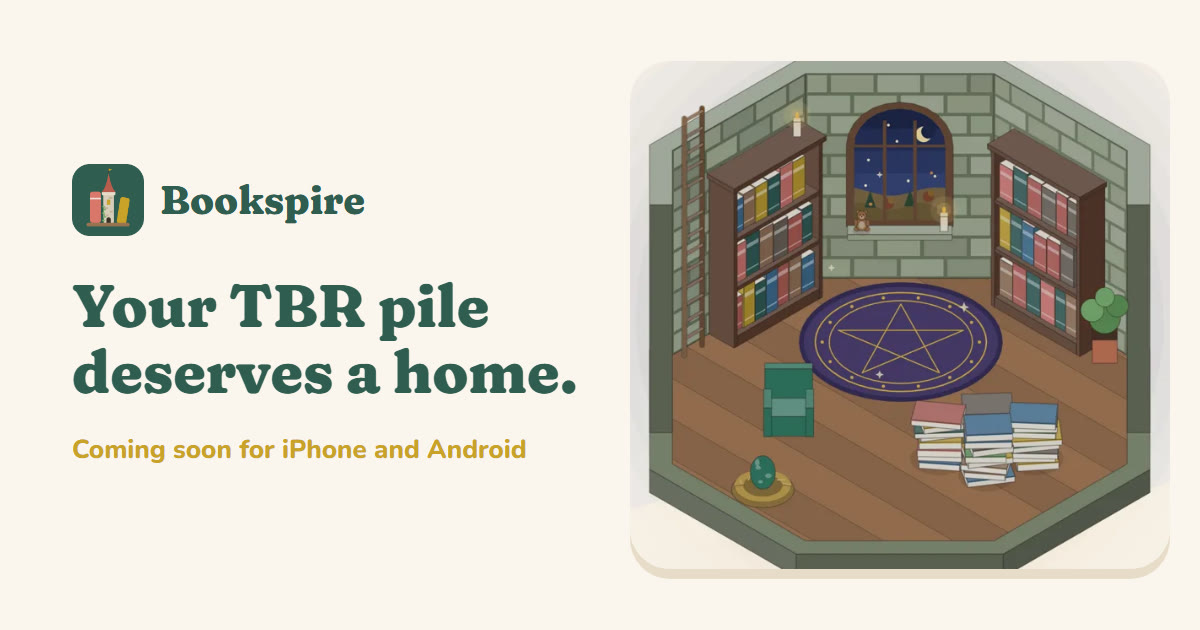
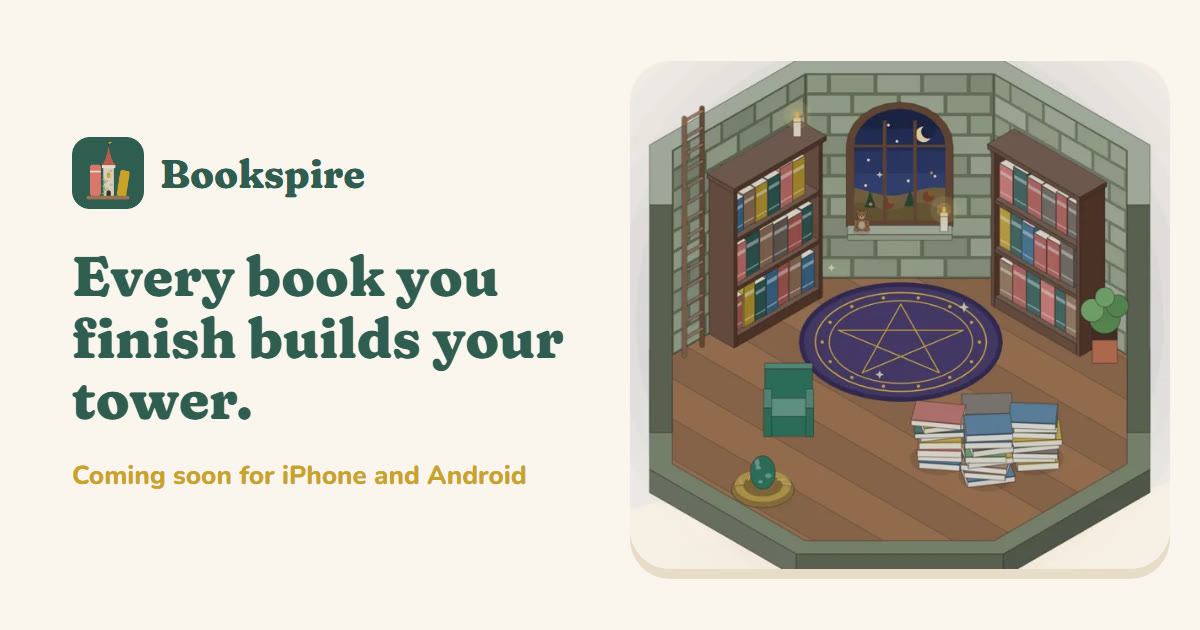
feat: Startseite – Texte auf den Kern ausgerichtet (Jedes Buch baut deinen Turm)
Für Neulinge und alle, denen Goodreads und Co. zu öde sind: neue Überschrift und Einleitung, Schritte mit Belohnung zuletzt, Abschnitte aus Sicht der Leserin, Abgrenzung im Tracker-Abschnitt, Rangliste ohne Widerspruch, zwei neue FAQ. Vorschaubilder og.jpg und og-en.jpg mit neuer Überschrift; Freund*innen einheitlich.

Changed region(s): [[0.0617, 0.2111, 0.4933, 0.6635], [0.0617, 0.6937, 0.4625, 0.7841]]

diff --git a/index.html b/index.html
@@ -3,19 +3,19 @@
   <head>
     <meta charset="utf-8" />
     <meta name="viewport" content="width=device-width, initial-scale=1" />
-    <title>Bookspire – dein TBR-Stapel verdient ein Zuhause</title>
+    <title>Bookspire – jedes Buch baut deinen Turm</title>
     <meta
       name="description"
-      content="Bookspire macht aus deinen Büchern ein gemütliches Lesezimmer in einem magischen Turm. Erfasse, was du liest, fülle Regal um Regal und lass deinen Turm wachsen." />
+      content="Bookspire macht dein Lesen sichtbar: Mit jedem Buch, das du beendest, füllt sich dein gemütliches Lesezimmer, und dein magischer Turm wächst. Bald für iPhone und Android." />
     <meta name="theme-color" content="#2f5d50" />
     <link rel="icon" type="image/png" href="images/favicon.png" />
     <link rel="apple-touch-icon" href="images/icon.png" />
     <link rel="alternate" hreflang="en" href="https://bookspire.de/en/" />
     <meta property="og:type" content="website" />
-    <meta property="og:title" content="Bookspire – dein TBR-Stapel verdient ein Zuhause" />
+    <meta property="og:title" content="Bookspire – jedes Buch baut deinen Turm" />
     <meta
       property="og:description"
-      content="Ein gemütliches Lesezimmer, das mit deinen Büchern wächst. Bald für iPhone und Android." />
+      content="Ein gemütliches Lesezimmer, das mit jedem Buch wächst, das du beendest. Bald für iPhone und Android." />
     <meta property="og:image" content="https://bookspire.de/images/og.jpg" />
     <meta property="og:image:width" content="1200" />
     <meta property="og:image:height" content="630" />
@@ -39,11 +39,11 @@
       <section class="hero wrap">
         <div class="hero-text">
           <p class="eyebrow">Für alle mit zu vielen Büchern. Also für dich.</p>
-          <h1>Dein TBR-Stapel verdient ein Zuhause.</h1>
+          <h1>Jedes Buch, das du beendest, baut deinen Turm.</h1>
           <p class="lead">
-            Bookspire macht aus deinen Büchern ein gemütliches Lesezimmer in einem magischen Turm.
-            Du liest wie immer – auf Papier oder dem E-Reader – und erfasst hier, was du liest.
-            Regal für Regal, Stockwerk für Stockwerk.
+            Bookspire macht dein Lesen sichtbar. Regal für Regal füllt sich dein gemütliches
+            Lesezimmer, Stockwerk für Stockwerk wächst dein Turm – und mit jedem Buch schaltest du
+            etwas Neues frei. Gelesen wird wie immer: auf Papier, dem E-Reader oder als Hörbuch.
           </p>
           <div class="cta-row">
             <a class="button" href="#warteliste">Auf die Warteliste</a>
@@ -69,32 +69,33 @@
       </section>
 
       <section class="steps wrap" aria-labelledby="steps-title">
-        <h2 id="steps-title">So einfach geht's</h2>
+        <h2 id="steps-title">So funktioniert's</h2>
         <ol>
           <li>
             <span class="step-number" aria-hidden="true">1</span>
-            <h3>Bücher rein</h3>
-            <p>ISBN scannen, Titel suchen oder deine Bibliothek mitbringen – aus Goodreads, BookBuddy oder jeder anderen App mit CSV-Export.</p>
+            <h3>Lesen, wie du magst</h3>
+            <p>Auf Papier, dem E-Reader oder als Hörbuch. Deine Bücher holst du per ISBN-Scan, Suche oder Import aus Goodreads und Co.</p>
           </li>
           <li>
             <span class="step-number" aria-hidden="true">2</span>
-            <h3>Fortschritt erfassen</h3>
-            <p>Trag mit wenigen Tipps ein, auf welcher Seite du gerade bist.</p>
+            <h3>Kurz eintragen</h3>
+            <p>Ein paar Tipps, und Bookspire weiß, auf welcher Seite du bist.</p>
           </li>
           <li>
             <span class="step-number" aria-hidden="true">3</span>
-            <h3>Jedes Buch zählt</h3>
-            <p>Beendete Bücher kommen ins Regal, und mit jedem schaltest du etwas Neues für dein Lesezimmer frei.</p>
+            <h3>Zusehen, wie es wächst</h3>
+            <p>Jedes beendete Buch wandert ins Regal und schaltet etwas Neues für dein Lesezimmer frei.</p>
           </li>
         </ol>
       </section>
 
       <section class="feature wrap">
         <div class="feature-text reveal">
-          <h2>Jedes Buch bekommt seinen Platz im Regal.</h2>
+          <h2>Endlich siehst du, was du gelesen hast.</h2>
           <p>
-            Gelesene Bücher stehen mit ihrem Buchrücken im Regal, ungelesene liegen auf deinem
-            TBR-Stapel im Erdgeschoss. Ein Tipp aufs Regal zeigt alle Titel aus der Nähe.
+            Jedes beendete Buch steht mit seinem Buchrücken im Regal. Was noch wartet, stapelt sich
+            im Erdgeschoss – ja, auch dein TBR bekommt seinen Platz. Ein Tipp aufs Regal holt alle
+            Titel ganz nah heran.
           </p>
         </div>
         <figure class="phone reveal">
@@ -107,8 +108,8 @@
         <div class="feature-text reveal">
           <h2>Volle Regale? Dein Turm wächst.</h2>
           <p>
-            Sind alle Regale eines Stockwerks voll, bekommt dein Turm eine neue Etage. Von außen
-            siehst du, wie weit du schon gekommen bist.
+            Ist ein Stockwerk voll, bekommt dein Turm eine neue Etage. Von außen siehst du, wie weit
+            du schon gekommen bist – Buch für Buch.
           </p>
         </div>
         <div class="phones reveal">
@@ -125,11 +126,11 @@
 
       <section class="feature wrap">
         <div class="feature-text reveal">
-          <h2>Richte dein Lesezimmer ein.</h2>
+          <h2>Jedes Buch bringt etwas mit.</h2>
           <p>
             Ohrensessel, Kerzen, Teppiche, Wände aus Moosstein oder Sternenstein, ein Kamin statt
-            des Fensters – mit jedem Buch, das du beendest, kommt etwas Neues dazu. Du entscheidest,
-            wo es steht und in welcher Farbe.
+            des Fensters: Mit jedem Buch, das du beendest, schaltest du etwas frei. Wo es steht und
+            in welcher Farbe, entscheidest du.
           </p>
         </div>
         <div class="phones reveal">
@@ -148,8 +149,9 @@
         <div class="feature-text reveal">
           <h2>Gemütlich zu jeder Jahreszeit.</h2>
           <p>
-            Der Blick aus dem Fenster folgt Tag und Nacht, Frühling, Sommer, Herbst und Winter.
-            Und zu Halloween, im Advent, zu Ostern und zu Mittsommer gibt es besondere Saisons.
+            Dein Lesezimmer lebt mit: Der Blick aus dem Fenster folgt Tag und Nacht, Frühling,
+            Sommer, Herbst und Winter. Zu Halloween, im Advent, zu Ostern und zu Mittsommer gibt es
+            besondere Saisons.
           </p>
         </div>
         <div class="phones reveal">
@@ -168,8 +170,9 @@
         <div class="feature-text reveal">
           <h2>Ein kleines Ich, das mitliest.</h2>
           <p>
-            Erstelle deinen Avatar. Er spaziert durch dein Lesezimmer, setzt sich in den Sessel und
-            liest. Neue Kleidung, Frisuren und Farben kommen mit jeder Seite, die du erfasst.
+            Erstelle deinen Avatar. Er spaziert durch dein Lesezimmer, kuschelt sich in den Sessel
+            und liest. Mit jeder Seite, die du erfasst, kommen neue Kleidung, Frisuren und Farben
+            dazu.
           </p>
         </div>
         <figure class="phone reveal">
@@ -181,11 +184,11 @@
       <section class="tracker wrap" aria-labelledby="tracker-title">
         <div class="feature feature-flip">
           <div class="feature-text reveal">
-            <h2 id="tracker-title">Und ganz nebenbei: ein echter Buch-Tracker.</h2>
+            <h2 id="tracker-title">Alles, was ein Buch-Tracker kann. Nur nicht öde.</h2>
             <p>
-              Hinter dem Turm steckt deine ganze Bibliothek: alle Bücher an einem Ort, mit Lesestatus,
-              Bewertung und Notizen. Dazu eine Statistik über dein Lesejahr und ein Leseziel, das
-              mitzählt.
+              Hinter dem Turm steckt deine ganze Bibliothek: Lesestatus, Bewertungen, Notizen, eine
+              Statistik über dein Lesejahr und ein Leseziel, das mitzählt. Wie bei Goodreads und Co. –
+              nur dass hier aus Zahlen ein Zuhause wird.
             </p>
             <figure class="card-shot card-shot-wide">
               <img src="images/app/goal.webp" width="480" height="241" loading="lazy" decoding="async"
@@ -260,11 +263,11 @@
           </article>
           <article class="feature-card">
             <h3>Monatsrangliste</h3>
-            <p>Wer erfasst diesen Monat die meisten Seiten? Ganz ohne Druck, versprochen.</p>
+            <p>Wer schafft diesen Monat die meisten Seiten? Ein kleiner Ansporn unter Freund*innen – mitmachen musst du nicht.</p>
           </article>
           <article class="feature-card">
             <h3>Du entscheidest</h3>
-            <p>Was Freunde sehen, legst du selbst fest. Ohne Konto bleibt alles auf deinem Handy.</p>
+            <p>Was Freund*innen sehen, legst du selbst fest. Ohne Konto bleibt alles auf deinem Handy.</p>
           </article>
         </div>
       </section>
@@ -279,6 +282,21 @@
           </p>
         </details>
         <details>
+          <summary>Ich lese gar nicht so viel. Ist das trotzdem was für mich?</summary>
+          <p>
+            Gerade dann. Jede Seite zählt, und schon das erste Buch bringt etwas Neues in dein
+            Lesezimmer. Ein Leseziel kannst du dir setzen, musst du aber nicht.
+          </p>
+        </details>
+        <details>
+          <summary>Was ist anders als bei Goodreads oder StoryGraph?</summary>
+          <p>
+            Dort sammelst du Listen und Diagramme. Bei Bookspire wird aus jedem Buch etwas, das du
+            siehst: ein Regal, das sich füllt, ein Zimmer, das du einrichtest, ein Turm, der wächst.
+            Deine Bibliothek aus Goodreads nimmst du einfach mit.
+          </p>
+        </details>
+        <details>
           <summary>Kann ich meine Bibliothek mitnehmen?</summary>
           <p>
             Ja. Bookspire importiert deine Bücher aus Goodreads, BookBuddy oder jeder CSV-Datei.
@@ -290,7 +308,7 @@
           <summary>Brauche ich ein Konto?</summary>
           <p>
             Nein. Ohne Konto bleibt alles auf deinem Gerät. Mit Konto bleiben Bibliothek und Turm
-            auf allen Geräten gleich, und du kannst Freunde finden.
+            auf allen Geräten gleich, und du kannst Freund*innen finden.
           </p>
         </details>
         <details>

diff --git a/en/index.html b/en/index.html
@@ -3,19 +3,19 @@
   <head>
     <meta charset="utf-8" />
     <meta name="viewport" content="width=device-width, initial-scale=1" />
-    <title>Bookspire – your TBR pile deserves a home</title>
+    <title>Bookspire – every book builds your tower</title>
     <meta
       name="description"
-      content="Bookspire turns your books into a cosy reading room in a magical tower. Log what you read, fill shelf after shelf and watch your tower grow." />
+      content="Bookspire makes your reading visible: every book you finish fills your cosy reading room and makes your magical tower grow. Coming soon for iPhone and Android." />
     <meta name="theme-color" content="#2f5d50" />
     <link rel="icon" type="image/png" href="../images/favicon.png" />
     <link rel="apple-touch-icon" href="../images/icon.png" />
     <link rel="alternate" hreflang="de" href="https://bookspire.de/" />
     <meta property="og:type" content="website" />
-    <meta property="og:title" content="Bookspire – your TBR pile deserves a home" />
+    <meta property="og:title" content="Bookspire – every book builds your tower" />
     <meta
       property="og:description"
-      content="A cosy reading room that grows with your books. Coming soon for iPhone and Android." />
+      content="A cosy reading room that grows with every book you finish. Coming soon for iPhone and Android." />
     <meta property="og:image" content="https://bookspire.de/images/og-en.jpg" />
     <meta property="og:image:width" content="1200" />
     <meta property="og:image:height" content="630" />
@@ -39,11 +39,11 @@
       <section class="hero wrap">
         <div class="hero-text">
           <p class="eyebrow">For everyone with too many books. So, for you.</p>
-          <h1>Your TBR pile deserves a home.</h1>
+          <h1>Every book you finish builds your tower.</h1>
           <p class="lead">
-            Bookspire turns your books into a cosy reading room in a magical tower. You read as
-            always – on paper or your e-reader – and log here what you read. Shelf by shelf, floor
-            by floor.
+            Bookspire makes your reading visible. Shelf by shelf your cosy reading room fills up,
+            floor by floor your tower grows – and every book unlocks something new. You read as
+            always: on paper, an e-reader or as an audiobook.
           </p>
           <div class="cta-row">
             <a class="button" href="#waitlist">Join the waitlist</a>
@@ -73,28 +73,29 @@
         <ol>
           <li>
             <span class="step-number" aria-hidden="true">1</span>
-            <h3>Add your books</h3>
-            <p>Scan the ISBN, search for a title or bring your library along – from Goodreads, BookBuddy or any other app with a CSV export.</p>
+            <h3>Read your way</h3>
+            <p>On paper, an e-reader or as an audiobook. Add your books by scanning the ISBN, searching or importing from Goodreads and co.</p>
           </li>
           <li>
             <span class="step-number" aria-hidden="true">2</span>
-            <h3>Log your progress</h3>
-            <p>Log the page you are on with just a few taps.</p>
+            <h3>Log it quickly</h3>
+            <p>A few taps, and Bookspire knows which page you are on.</p>
           </li>
           <li>
             <span class="step-number" aria-hidden="true">3</span>
-            <h3>Every book counts</h3>
-            <p>Finished books go on your shelves, and each one unlocks something new for your reading room.</p>
+            <h3>Watch it grow</h3>
+            <p>Every book you finish moves onto a shelf and unlocks something new for your reading room.</p>
           </li>
         </ol>
       </section>
 
       <section class="feature wrap">
         <div class="feature-text reveal">
-          <h2>Every book gets its place on the shelf.</h2>
+          <h2>Finally see everything you have read.</h2>
           <p>
-            Books you have read stand on the shelves spine out, unread ones lie on your TBR pile on
-            the ground floor. Tap a shelf to see every title up close.
+            Every book you finish stands on a shelf, spine out. What is still waiting piles up on
+            the ground floor – yes, your TBR gets its place too. Tap a shelf to see every title up
+            close.
           </p>
         </div>
         <figure class="phone reveal">
@@ -107,8 +108,8 @@
         <div class="feature-text reveal">
           <h2>Shelves full? Your tower grows.</h2>
           <p>
-            When every shelf on a floor is full, your tower gets a new floor. From outside, you can
-            see how far you have come.
+            Once a floor is full, your tower gets a new one. From outside, you can see how far you
+            have come – book by book.
           </p>
         </div>
         <div class="phones reveal">
@@ -125,11 +126,11 @@
 
       <section class="feature wrap">
         <div class="feature-text reveal">
-          <h2>Furnish your reading room.</h2>
+          <h2>Every book brings something along.</h2>
           <p>
             Wing chairs, candles, rugs, walls of moss stone or star stone, a fireplace instead of
-            the window – every book you finish brings something new. You decide where it goes and
-            in which colour.
+            the window: every book you finish unlocks something. Where it goes and in which colour
+            is up to you.
           </p>
         </div>
         <div class="phones reveal">
@@ -148,8 +149,9 @@
         <div class="feature-text reveal">
           <h2>Cosy in every season.</h2>
           <p>
-            The view from the window follows day and night, spring, summer, autumn and winter. And
-            there are special seasons for Halloween, Advent, Easter and Midsummer.
+            Your reading room lives with you: the view from the window follows day and night,
+            spring, summer, autumn and winter. And there are special seasons for Halloween, Advent,
+            Easter and Midsummer.
           </p>
         </div>
         <div class="phones reveal">
@@ -168,8 +170,8 @@
         <div class="feature-text reveal">
           <h2>A little you who reads along.</h2>
           <p>
-            Create your avatar. It strolls through your reading room, sits down in the armchair and
-            reads. New clothes, hairstyles and colours come with every page you log.
+            Create your avatar. It strolls through your reading room, curls up in the armchair and
+            reads. Every page you log brings new clothes, hairstyles and colours.
           </p>
         </div>
         <figure class="phone reveal">
@@ -181,11 +183,11 @@
       <section class="tracker wrap" aria-labelledby="tracker-title">
         <div class="feature feature-flip">
           <div class="feature-text reveal">
-            <h2 id="tracker-title">And on the side: a proper book tracker.</h2>
+            <h2 id="tracker-title">Everything a book tracker does. Just not boring.</h2>
             <p>
-              Behind the tower sits your whole library: every book in one place, with reading status,
-              rating and notes. Plus statistics on your reading year and a reading goal that keeps
-              count.
+              Behind the tower sits your whole library: reading status, ratings, notes, statistics on
+              your reading year and a reading goal that keeps count. Like Goodreads and co. – except
+              here, numbers turn into a home.
             </p>
             <figure class="card-shot card-shot-wide">
               <img src="../images/app/en/goal.webp" width="480" height="241" loading="lazy" decoding="async"
@@ -260,7 +262,7 @@
           </article>
           <article class="feature-card">
             <h3>Monthly ranking</h3>
-            <p>Who logs the most pages this month? No pressure, promise.</p>
+            <p>Who reads the most pages this month? A little nudge among friends – joining in is up to you.</p>
           </article>
           <article class="feature-card">
             <h3>You decide</h3>
@@ -276,6 +278,21 @@
           <p>
             No. You read as usual – on paper, an e-reader or as an audiobook – and only log in
             Bookspire how far you are.
+          </p>
+        </details>
+        <details>
+          <summary>I don't read that much. Is it still for me?</summary>
+          <p>
+            All the more. Every page counts, and your very first book brings something new into your
+            reading room. You can set a reading goal, but you don't have to.
+          </p>
+        </details>
+        <details>
+          <summary>How is it different from Goodreads or StoryGraph?</summary>
+          <p>
+            There you collect lists and charts. In Bookspire, every book becomes something you can
+            see: a shelf that fills up, a room you furnish, a tower that grows. Your Goodreads
+            library comes right along.
           </p>
         </details>
         <details>
